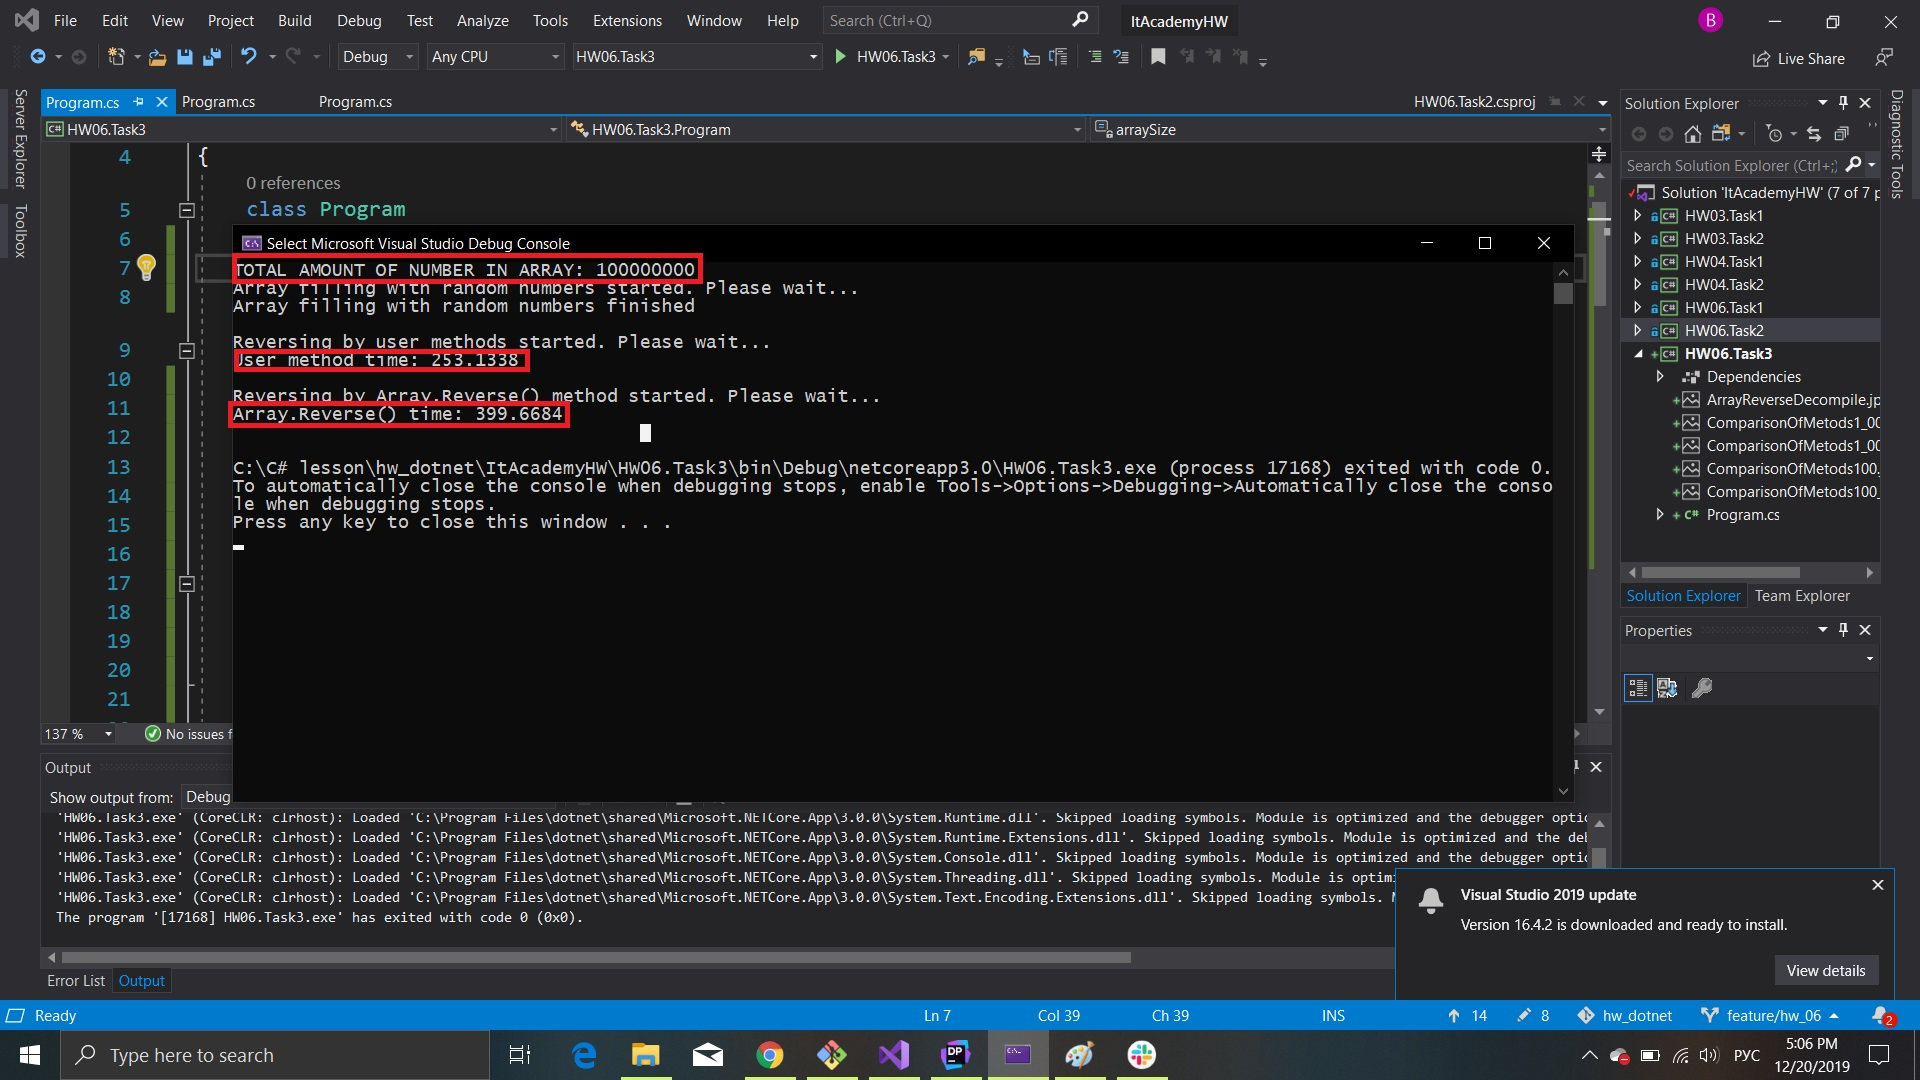
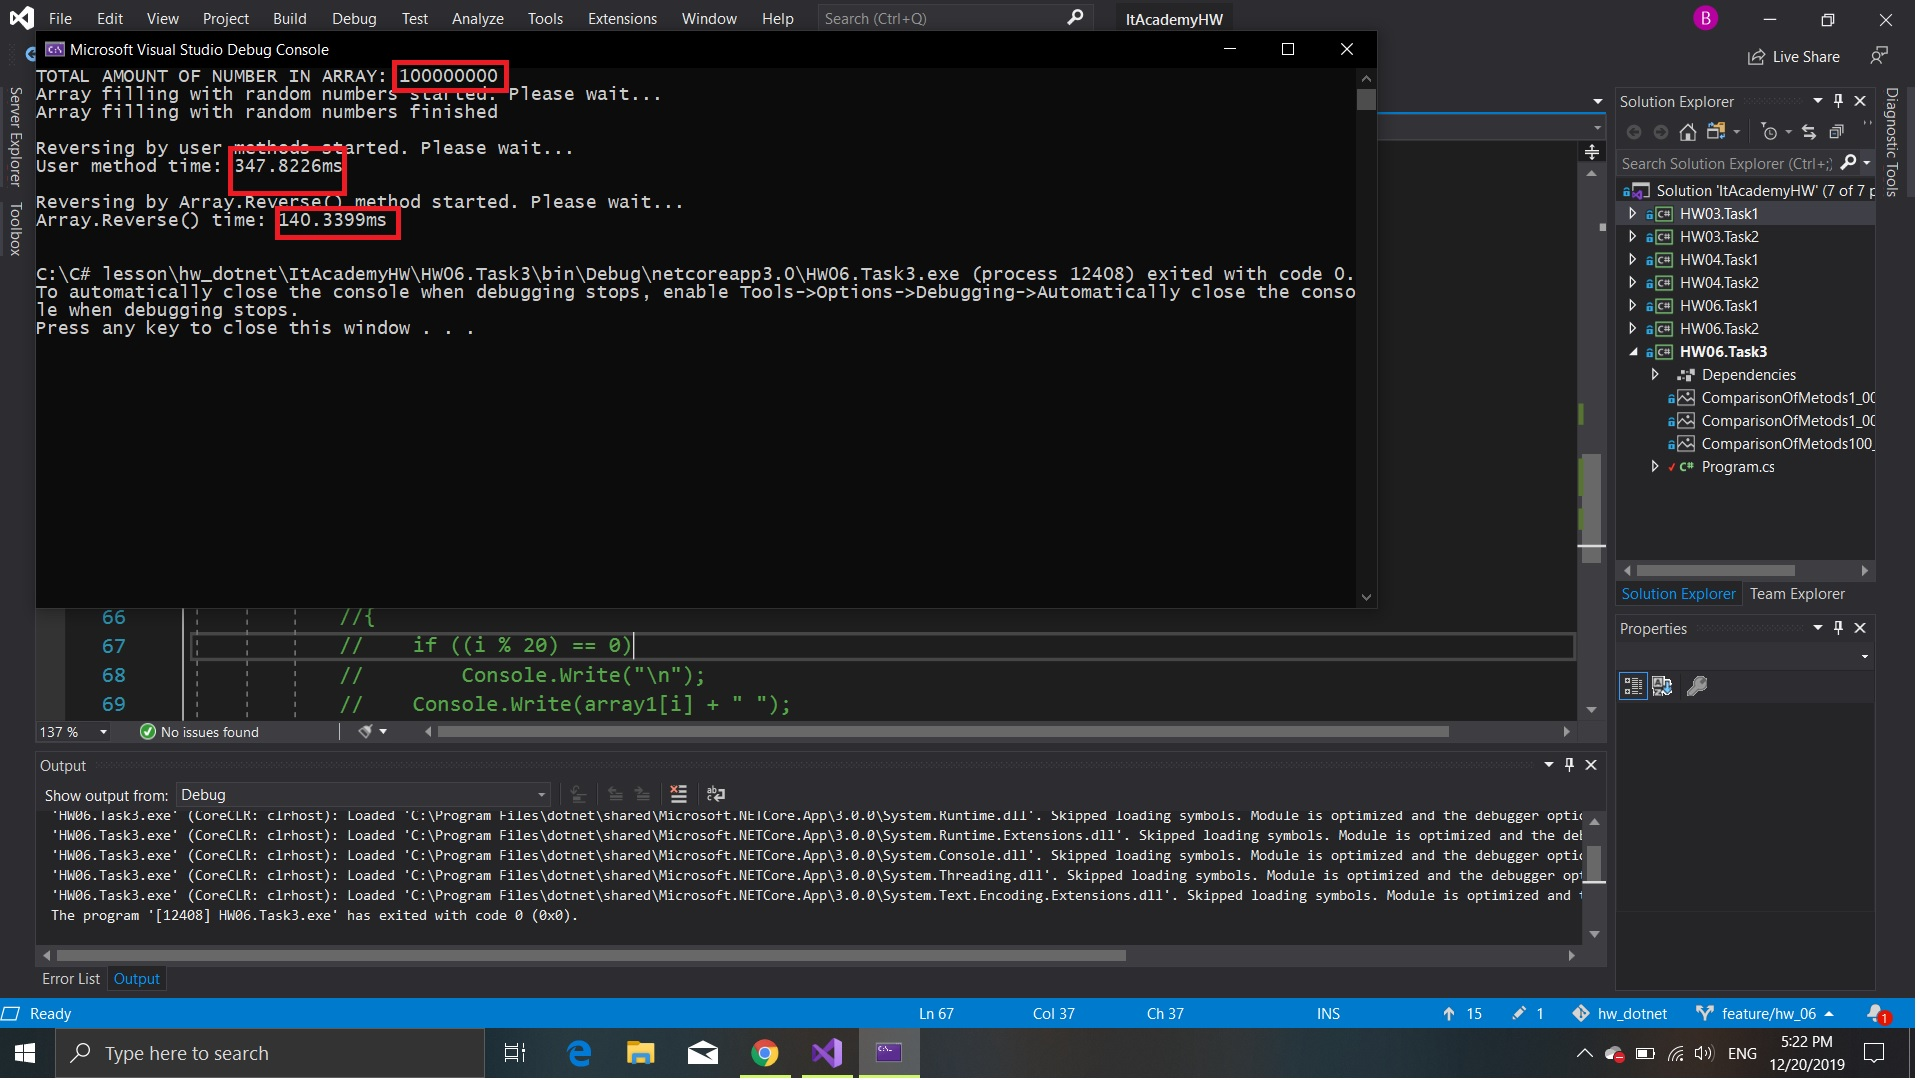
timer.reset added in task 3

Changed region(s): [[0.0, 0.0, 1.0, 1.0], [0.9688, 0.5806, 1.0, 0.6111], [0.875, 0.0, 0.9062, 0.0306]]

diff --git a/ItAcademyHW/HW06.Task3/Program.cs b/ItAcademyHW/HW06.Task3/Program.cs
@@ -40,7 +40,8 @@ namespace HW06.Task3
             }
             timer.Stop();
             TimeSpan userMethodTime = timer.Elapsed;
-            Console.Write("User method time: " + userMethodTime.TotalMilliseconds);
+            timer.Reset();
+            Console.Write("User method time: " + userMethodTime.TotalMilliseconds + "ms");
 
             //for (int i = 0; i < arraySize; i++) //display array
             //{
@@ -50,13 +51,16 @@ namespace HW06.Task3
             //}
             Console.Write("\n\n");
 
+            
+
             ///////////
             Console.WriteLine("Reversing by Array.Reverse() method started. Please wait...");
             timer.Start();
             Array.Reverse(array1); // reverse array by .Net method
             timer.Stop();
             TimeSpan dotNetMethodTime = timer.Elapsed;
-            Console.Write("Array.Reverse() time: " + dotNetMethodTime.TotalMilliseconds);
+            timer.Reset();
+            Console.Write("Array.Reverse() time: " + dotNetMethodTime.TotalMilliseconds + "ms");
 
             //for (int i = 0; i < arraySize; i++) //display array
             //{
